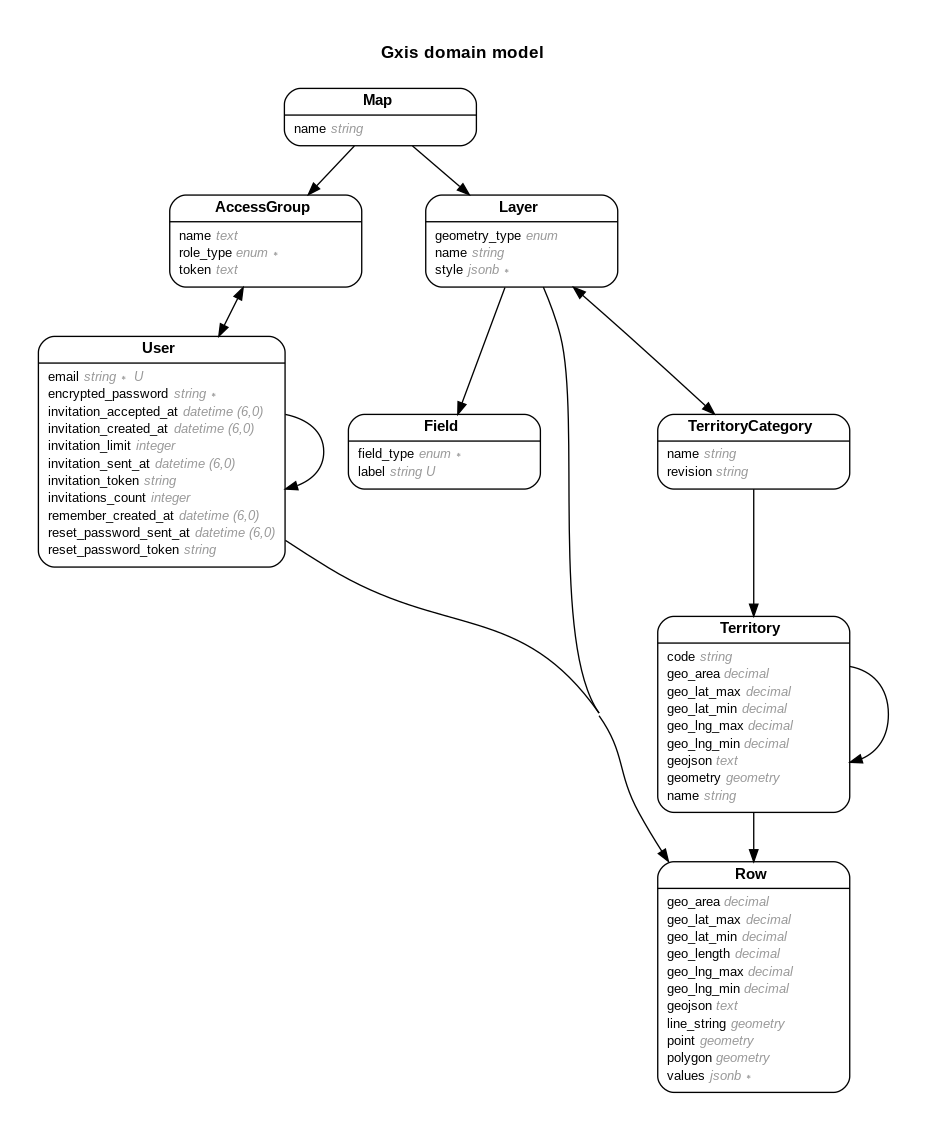
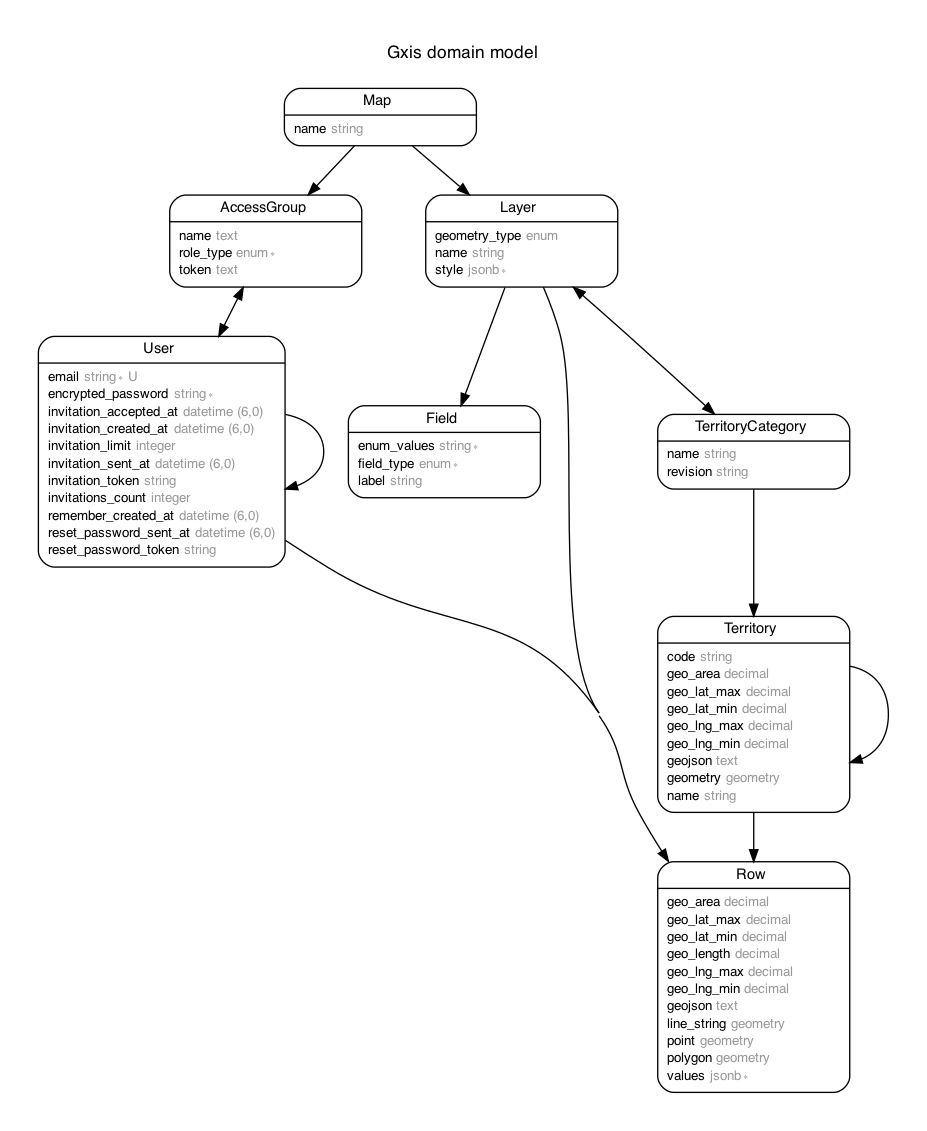
Add field type enum

diff --git a/app/models/field.rb b/app/models/field.rb
@@ -2,12 +2,13 @@
 #
 # Table name: fields
 #
-#  id         :uuid             not null, primary key
-#  field_type :enum             not null
-#  label      :string
-#  created_at :datetime         not null
-#  updated_at :datetime         not null
-#  layer_id   :uuid
+#  id          :uuid             not null, primary key
+#  enum_values :string           is an Array
+#  field_type  :enum             not null
+#  label       :string
+#  created_at  :datetime         not null
+#  updated_at  :datetime         not null
+#  layer_id    :uuid
 #
 # Indexes
 #
@@ -19,8 +20,10 @@
 #
 class Field < ApplicationRecord
   belongs_to :layer
-  enum :field_type, {text: "text", float: "float", integer: "integer", territory: "territory", date: "date", boolean: "boolean", css_property: "css_property"}, prefix: :type
+  enum :field_type, {text: "text", float: "float", integer: "integer", territory: "territory", date: "date", boolean: "boolean", css_property: "css_property", enum: "enum"}, prefix: :type
   validates :field_type, presence: true
+
+  validates :enum_values, presence: true, if: -> { type_enum? }
 
   after_create_commit -> do
     broadcast_i18n_before_to layer, target: "delete-column", partial: "fields/th"

diff --git a/db/schema.rb b/db/schema.rb
@@ -10,7 +10,7 @@
 #
 # It's strongly recommended that you check this file into your version control system.
 
-ActiveRecord::Schema[7.0].define(version: 2022_09_29_153656) do
+ActiveRecord::Schema[7.0].define(version: 2022_10_05_092041) do
   # These are extensions that must be enabled in order to support this database
   enable_extension "pg_trgm"
   enable_extension "pgcrypto"
@@ -25,6 +25,7 @@ ActiveRecord::Schema[7.0].define(version: 2022_09_29_153656) do
     "date",
     "boolean",
     "css_property",
+    "enum",
   ], force: :cascade
 
   create_enum :layer_geometry_type, [
@@ -67,6 +68,7 @@ ActiveRecord::Schema[7.0].define(version: 2022_09_29_153656) do
     t.datetime "created_at", null: false
     t.datetime "updated_at", null: false
     t.enum "field_type", null: false, enum_type: "field_type"
+    t.string "enum_values", array: true
     t.index ["layer_id"], name: "index_fields_on_layer_id"
   end
 

diff --git a/test/models/field_test.rb b/test/models/field_test.rb
@@ -2,12 +2,13 @@
 #
 # Table name: fields
 #
-#  id         :uuid             not null, primary key
-#  field_type :enum             not null
-#  label      :string
-#  created_at :datetime         not null
-#  updated_at :datetime         not null
-#  layer_id   :uuid
+#  id          :uuid             not null, primary key
+#  enum_values :string           is an Array
+#  field_type  :enum             not null
+#  label       :string
+#  created_at  :datetime         not null
+#  updated_at  :datetime         not null
+#  layer_id    :uuid
 #
 # Indexes
 #

diff --git a/db/migrate/20221005092041_add_enum_field_type.rb b/db/migrate/20221005092041_add_enum_field_type.rb
@@ -1,0 +1,6 @@
+class AddEnumFieldType < ActiveRecord::Migration[7.0]
+  def change
+    add_enum_value :field_type, "enum"
+    add_column :fields, :enum_values, :string, array: true
+  end
+end
